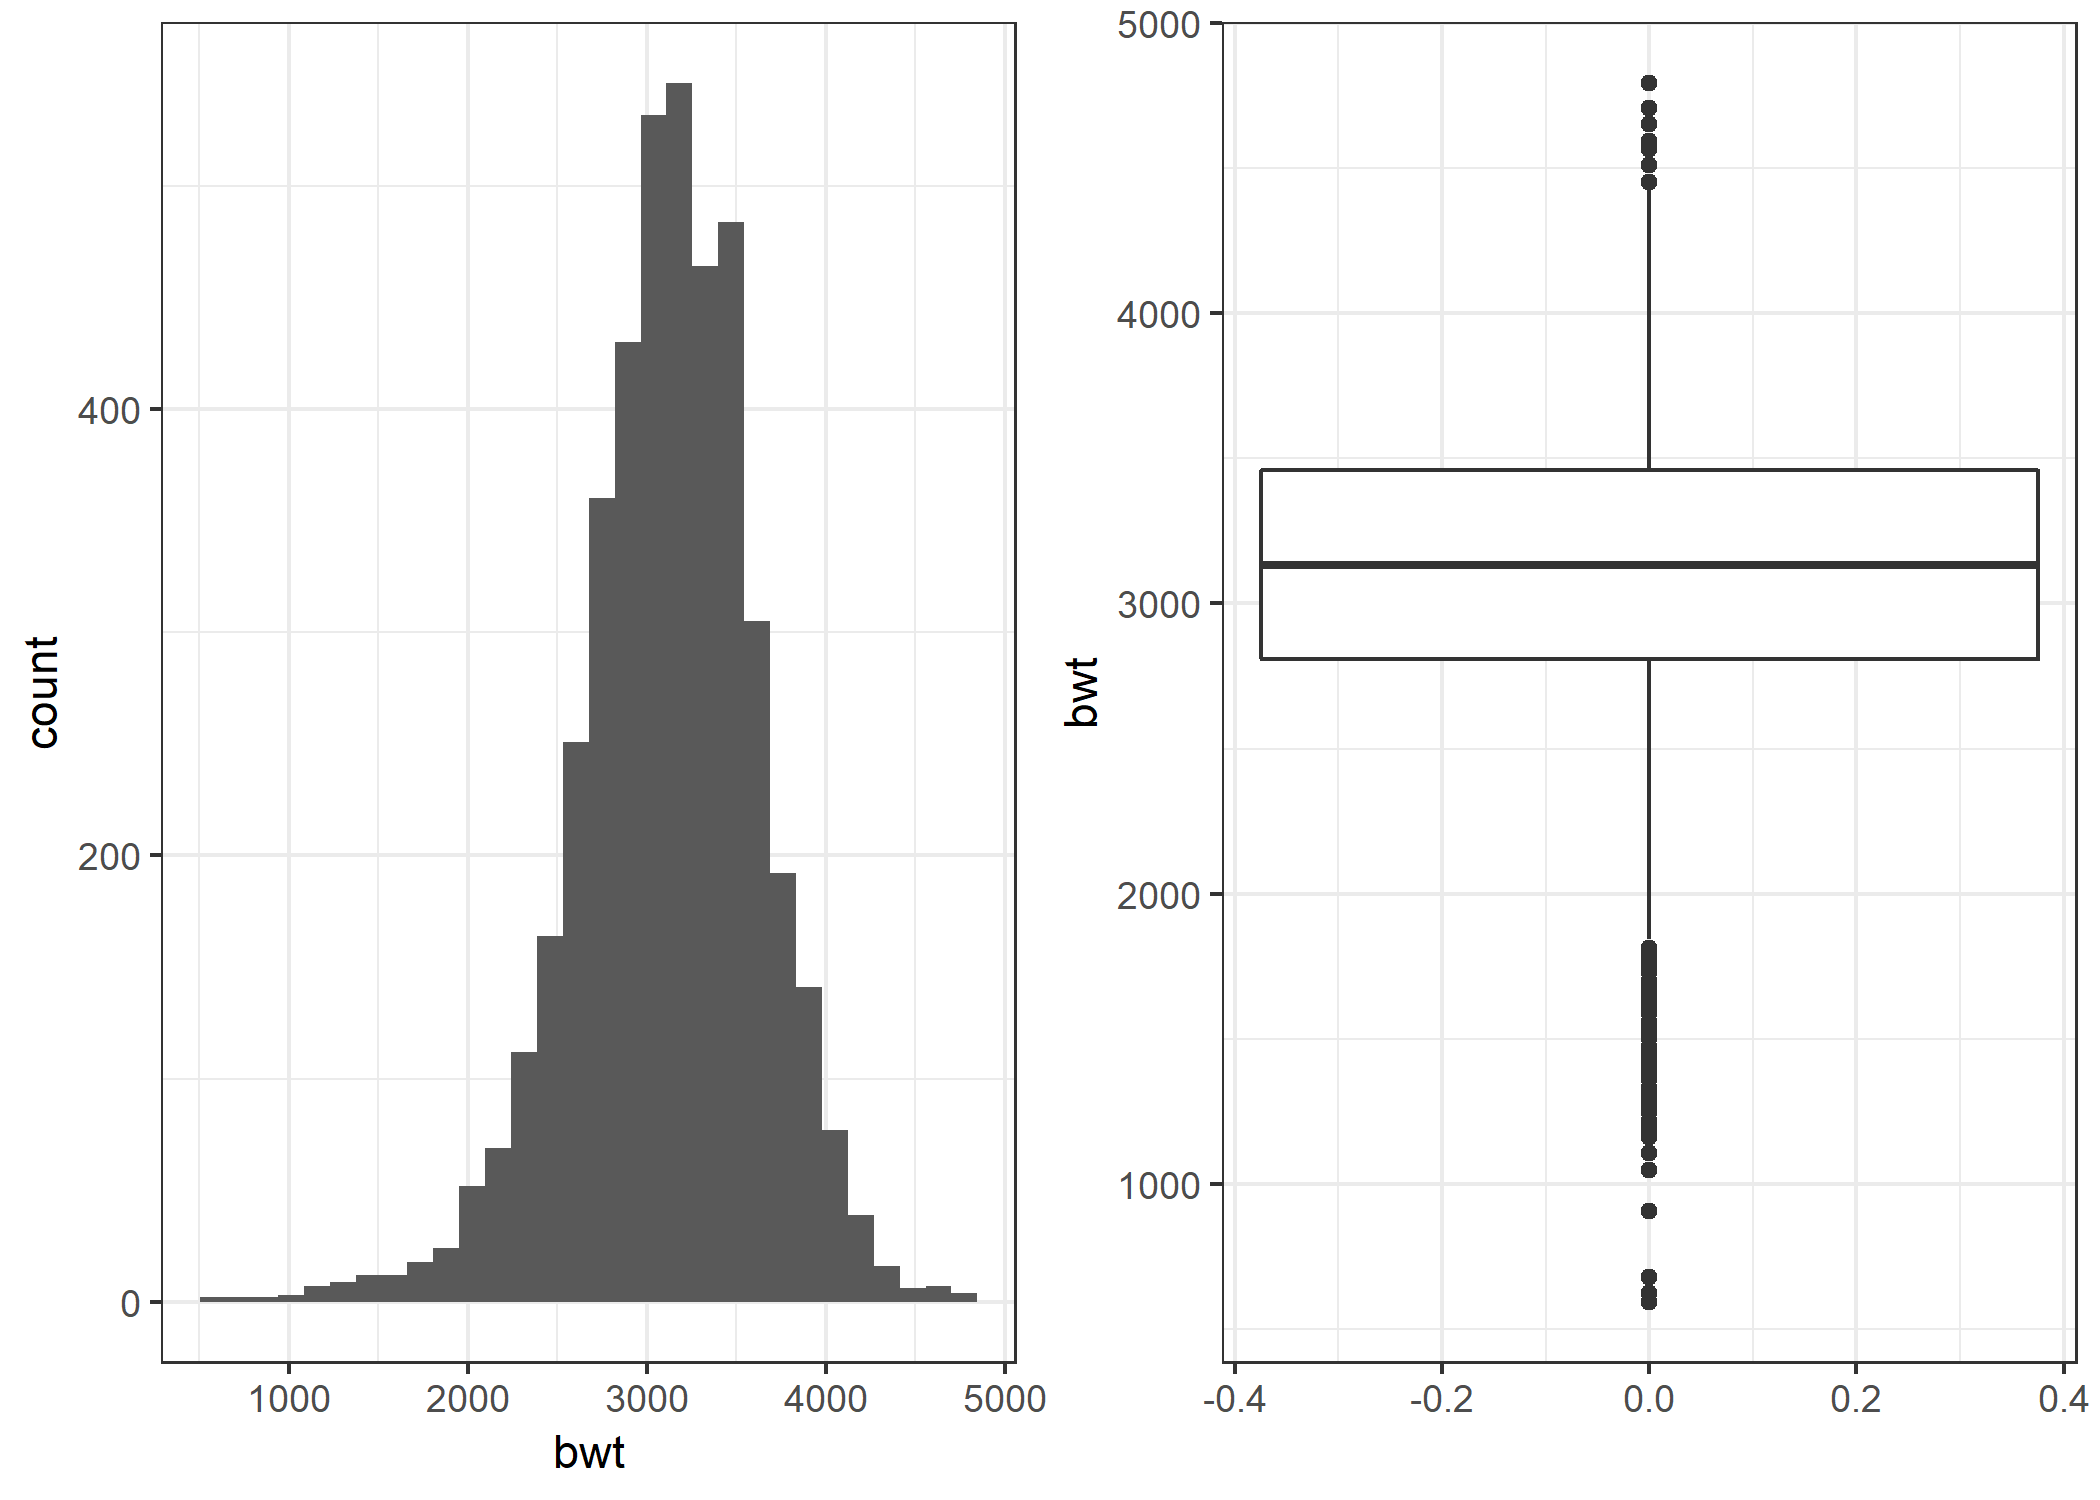
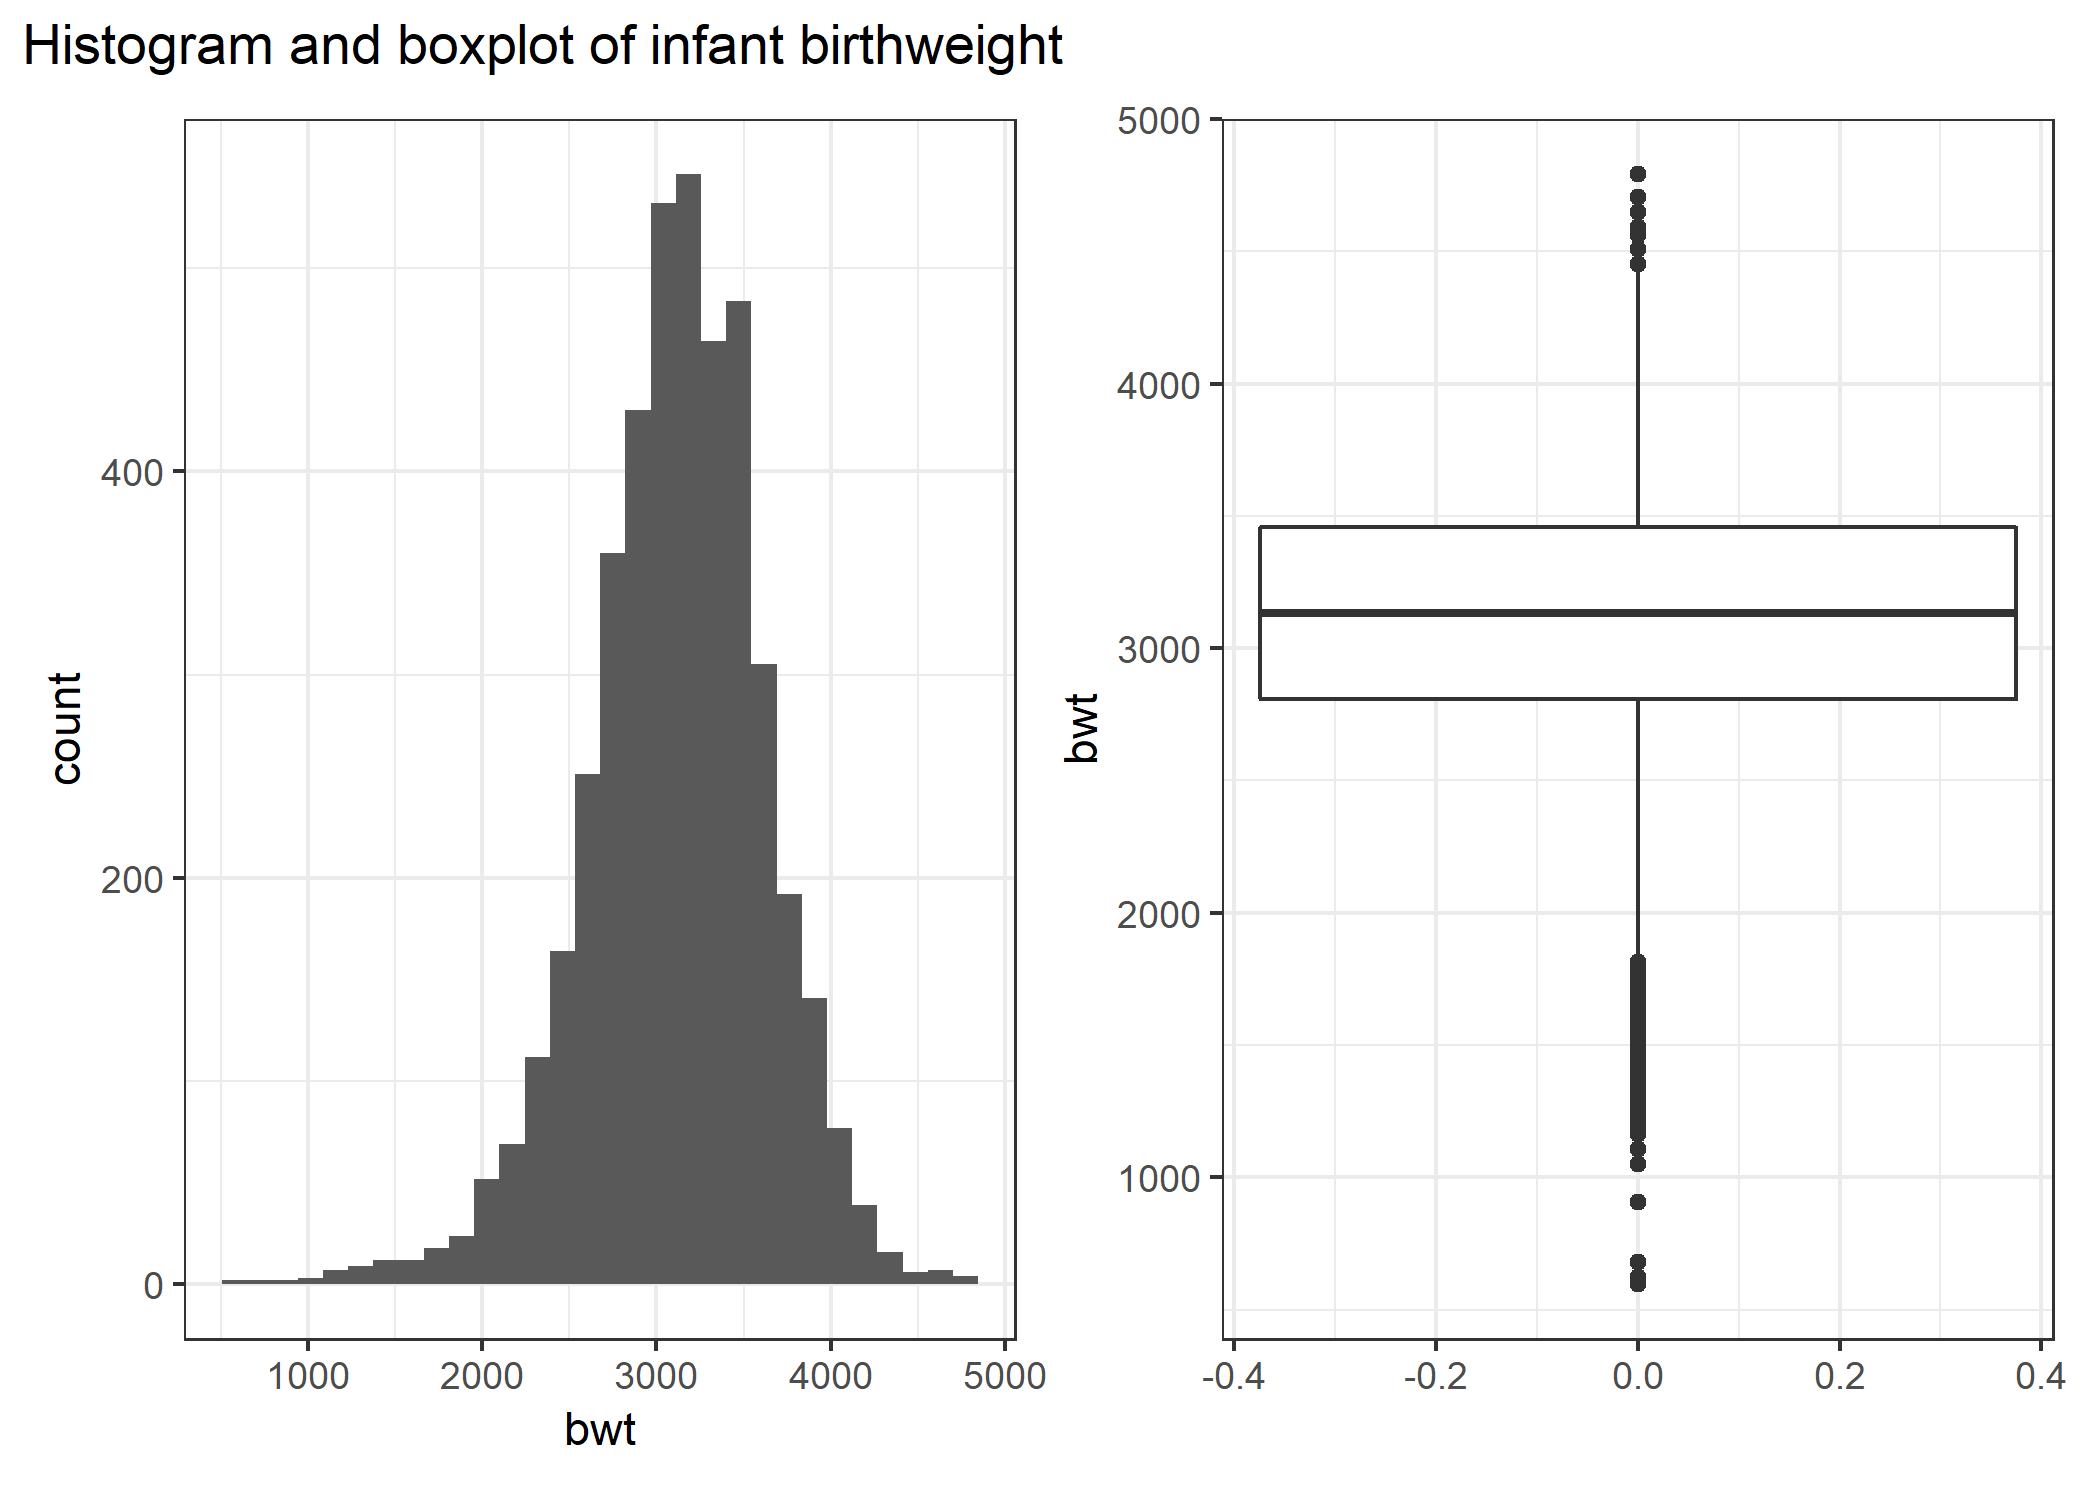
code comments

diff --git a/p8105_hw6_ntw2117.md b/p8105_hw6_ntw2117.md
@@ -10,6 +10,7 @@ murder <-
   read_csv("https://raw.githubusercontent.com/washingtonpost/data-homicides/master/homicide-data.csv")
 
 murder <- murder %>%  
+  # doing some cleaning
   unite("city_state", c("city", "state"), sep = ", ") %>% 
   mutate(solved = ifelse(disposition == "Closed by arrest", 1, 0), 
          victim_race = ifelse(victim_race != "White", "non-White", "White"), 
@@ -22,9 +23,11 @@ murder <- murder %>%
 
 ``` r
 balt_model <- murder %>% 
+  # running glm only on Baltimore
   filter(city_state == "Baltimore, MD") %>% 
   glm(solved ~ victim_sex + victim_race + victim_age, family = binomial, data = .)
 
+# making a dandy table
 broom::tidy(balt_model) %>% 
   mutate(or = exp(estimate), 
          or_lower = exp(estimate - 1.96*std.error), 
@@ -45,22 +48,28 @@ In Baltimore, the odds of a non-White homicide victims case being solved is 0.44
 
 ``` r
 murder %>% 
+  # first creating a listcolumn organized by city_state
   group_by(city_state) %>% 
   nest() %>% 
+  # running glm on every city
   mutate(logit_solve = map(data, ~glm(solved ~ victim_sex + victim_race + victim_age, 
                                       family = binomial, data = .x)), 
          logit_solve = map(logit_solve, broom::tidy)) %>% 
   select(-data) %>% 
   unnest() %>% 
+  # extracting the OR of interest
   filter(term == "victim_racenon-White") %>% 
+  # calulating some ci's
   mutate(or = exp(estimate), 
          or_lower = exp(estimate - 1.96*std.error), 
          or_upper = exp(estimate + 1.96*std.error), 
          city_state = fct_reorder(city_state, estimate)) %>% 
   select(city_state, or, or_lower, or_upper) %>% 
+  # making a nice plot
   ggplot(aes(x = city_state, y = or)) + 
   geom_point() + 
   geom_errorbar(aes(ymin = or_lower, ymax = or_upper)) + 
+  # visualizing one
   geom_hline(yintercept = 1.0, linetype = "dashed", color = "red") + 
   coord_flip() + 
   labs(title = "OR's for solving non-White homicide compared \nto solving a White homicide in different cities", 
@@ -78,9 +87,11 @@ Boston has the lowest odds ratio of all the cities analzed indicating that they 
 bweight <- read_csv("data/birthweight.csv") %>% 
   janitor::clean_names()
 
+# checking for missing data
 # sum(is.na(bweight))
 # equals 0, no missing data
 
+# converting to factors
 bweight <- bweight %>% 
   mutate(babysex = as.factor(babysex), 
          frace = as.factor(frace), 
@@ -89,9 +100,25 @@ bweight <- bweight %>%
 ```
 
 ``` r
+# visual peek at birthweight
+dens <- bweight %>% 
+  ggplot(aes(x = bwt)) + 
+  geom_histogram()
+
+box <- bweight %>% 
+  ggplot(aes(y = bwt)) + 
+  geom_boxplot()
+
+wrap_elements(dens + box) + ggtitle("Histogram and boxplot of infant birthweight")
+```
+
+<img src="p8105_hw6_ntw2117_files/figure-markdown_github/density plot and box plot-1.png" width="80%" />
+
+``` r
 # dataset with only numeric variables
 wt_num <- select_if(bweight, is.numeric)
 
+# calculating correlation coefficients for the numeric variables and putting in a table
 corr <- list()
 
 for (i in 1:ncol(wt_num)) {
@@ -123,31 +150,19 @@ as.data.frame(corr) %>%
 # map(wt_num, make)
 ```
 
-``` r
-dens <- bweight %>% 
-  ggplot(aes(x = bwt)) + 
-  geom_histogram()
+I chose a regression model based on a combination of hypothesized factors that influence birth weight as well as a data driven model building process. I first came up with 3 possible models: `hyp_mod`, `cor_mod`, and `comb_mod`. The hypothesis only model was based on variables that had more "clinical" significance (except baby sex which I included as a control variable); for example, the babies length and head circumference most likely influences the babies weight, however it is impossible to intervene and make the baby longer or have a larger head. As such, I chose family monthly income as an indicator of socioeconomic status, gestational age, the number of prior live births, the average number of cigarettes smoked during the pregnancy, and the amount of weight gained by the mother during the pregnancy. Obviously, there are other variables that could have been included in this model but I focused on limiting the number of predictors and being aware of possible collinearity issues. I also did not explore any interactions or non-linear models for reasons of interpretability.
 
-box <- bweight %>% 
-  ggplot(aes(y = bwt)) + 
-  geom_boxplot()
-
-dens + box
-```
-
-<img src="p8105_hw6_ntw2117_files/figure-markdown_github/density plot and box plot-1.png" width="80%" />
-
-I chose a regression model based on a combination of hypothesized factors that influence birth weight as well as a data driven model building process. I first came up with 3 possible models: `hyp_mod`, `cor_mod`, and `comb_mod`. The hypothesis only model was based on variables that had more "clinical" significance (except baby sex which I included as a control variable); for example, the babies length and head circumference most likely influences the babies weight, however it is impossible to intervene and make the baby longer or have a larger head. As such, I chose family monthly income as an indicator of socioeconomic status, gestational age, the number of prior live births, the average number of cigarettes smoked during the pregnancy, and the amount of weight gained by the mother during the pregnancy. Obviously, there are other variables that could have been included this model but I focused on limiting the number of predictors and being aware of possible collinearity issues. I also did not explore any interactions or non-linear models for interpretability reasons.
-
-The second model I tested was simply based on numeric predictors that had a correlation coefficient whose absolute value with birth weight was greater than 0.20. By no means, is this a great way of selecting variables but this did give an indication of numeric variables that possibly have a linear relationship with birth weight. I also wanted to avoid something like step-wise selection while also not using a more advanced method like LASSO which would require using a package not discussed in class. These variables were circumference of the baby's head, the length of the baby, gestational age, mother weight gain, and mother's weight at delivery.
+The second model I tested was simply based on numeric predictors that had a correlation coefficient whose absolute value with birth weight was greater than 0.20. By no means is this a great way of selecting variables but this did give an indication of numeric variables that possibly have a linear relationship with birth weight. I also wanted to avoid something like step-wise selection while also not using a more advanced method like LASSO which would require using a package not discussed in class. These variables were circumference of the baby's head, the length of the baby, gestational age, mother weight gain, and mother's weight at delivery.
 
 The last candidate model was a combination of the hypothesized model and the correlation based model.
 
 ``` r
 set.seed(20)
 
+# cross validating
 cv_bweight <- crossv_mc(bweight, 100)
 
+# running candidate models on training data in cv_bweight
 cv_bweight <- cv_bweight %>% 
     mutate(hyp_mod = map(train, ~lm(bwt ~ babysex + fincome + gaweeks + parity + smoken + wtgain, data = .x)),
            cor_mod = map(train, ~lm(bwt ~ bhead + blength + gaweeks + wtgain + delwt, data = .x)), 
@@ -157,6 +172,7 @@ cv_bweight <- cv_bweight %>%
            rmse_cor = map2_dbl(cor_mod, test, ~rmse(model = .x, data = .y)),
            rmse_comb = map2_dbl(comb_mod, test, ~rmse(model = .x, data = .y)))
 
+# plotting rmse of the candidate models on testing data
 cv_bweight %>%  
   select(starts_with("rmse")) %>% 
   gather(key = model, value = rmse) %>% 
@@ -171,9 +187,11 @@ cv_bweight %>%
 Based on the violin plots of the RMSE calculated using the testing set of data among the three models, I chose the combination model as my final model.
 
 ``` r
+# creating model using all data
 comb_mod <- bweight %>% 
   lm(bwt ~ babysex + fincome + gaweeks + parity + smoken + wtgain + bhead + blength, data = .) 
 
+# plotting residuals and predicted values
 bweight %>% 
   add_predictions(comb_mod) %>% 
   add_residuals(comb_mod) %>% 
@@ -209,4 +227,4 @@ cv_bweight2 %>%
 
 <img src="p8105_hw6_ntw2117_files/figure-markdown_github/comparing to jeff models-1.png" width="65%" />
 
-The above figure presents violin plots the RMSE for my proposed model, the main effects model, and the interaction model. Based on these plots, I would still chooose my model, however I might consider adding the interactions specified in the interaction model. It is important to note that I have not evaluated the signficance of any of these models in making a decision.
+The above figure presents violin plots for the RMSE for my proposed model, the main effects model, and the interaction model. Based on these plots, I would still chooose my model, however I might consider adding the interactions specified in the interaction model. It is important to note that I have not evaluated the signficance of any of these models or used another measures like AIC in making a decision.
